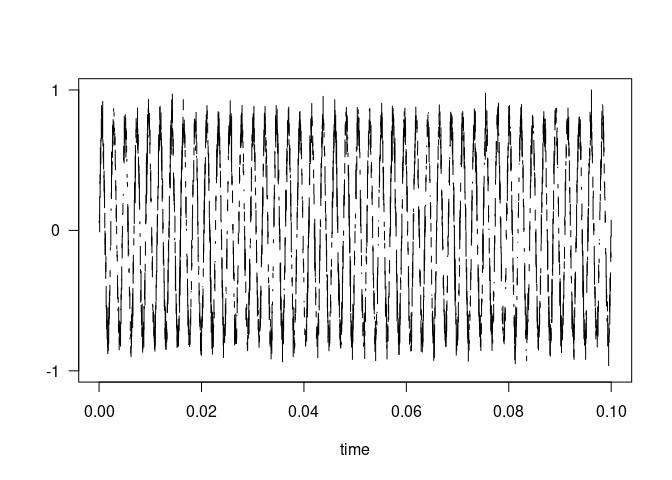
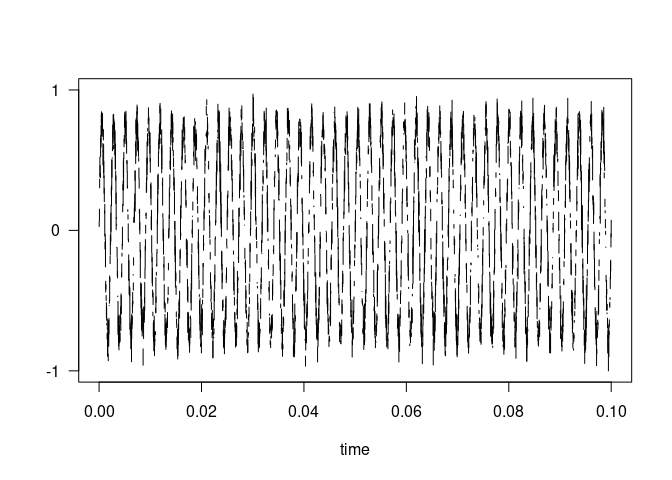
a bit more cleaning before CRAN submission

Changed region(s): [[0.125, 0.1875, 0.9062, 0.75]]

diff --git a/README.md b/README.md
@@ -93,6 +93,7 @@ The second example below adds some noise to this perfect A note. For
 more approaches to generate sound, see [sound
 synthesis](https://en.wikipedia.org/wiki/Synthesizer#Sound_synthesis).
 
+    set.seed(123456)
     noisyA <- soundSample(wave=w+0.1*rnorm(n))
     # listen(noisyA) # uncomment to listen to the sample
     plot(noisyA)
